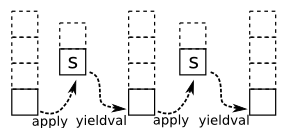
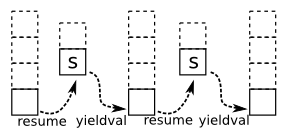
Add corrections.

Changed region(s): [[0.0567, 0.9062, 0.2553, 1.0], [0.5106, 0.9062, 0.6809, 1.0]]

diff --git a/coroutines/docs/0.3/101.md b/coroutines/docs/0.3/101.md
@@ -58,8 +58,9 @@ completes.
 Above, the caller of the `id` lambda (e.g. the main program) must suspend execution
 until `id` completes.
 After `id` returns control to the caller, the instance of the subroutine
-`id` no longer exists, so it does not make sense to refer to it.
-An invocation (i.e. *an instance of a subroutine*) is not a first-class object.
+`id` no longer exists, so it does not make sense to be able to refer to it.
+An invocation (i.e. *an instance of a subroutine*) is therefore
+not a first-class object.
 
 By contrast, a coroutine invocation can suspend its execution before it completes,
 and later be resumed.
@@ -79,20 +80,21 @@ the only difference being the enclosing `coroutine` block:
 Here, the difference between a *coroutine definition*
 and a *coroutine instance* becomes more prominent.
 We cannot create and get a hold of a coroutine instance
-at the same time as obtaining its return value,
+simultaneously with obtaining its return value,
 so starting a coroutine is a two step process.
 First, a coroutine is instantiated with the `call` keyword,
 which returns a coroutine instance object.
-Second, a coroutine instance is started by calling its `apply()` method:
+Second, a coroutine instance is started by calling its `resume` method:
 
     val c = call(id(7))
-    assert(c() == 7)
+    c.resume
+    assert(c.result == 7)
 
 Above, we first use the `call` keyword to create
 an `id` coroutine instance called `c`.
 This coroutine instance object `c` is created in a suspended state,
-and is resumed by calling `c()` to obtain the return value
-from the coroutine.
+and is resumed by calling `c.resume`.
+To obtain the resulting value from the coroutine, we call `c.result`.
 The `assert` statement is used here to verify that the return value
 is really what we expect.
 Importantly, the same coroutine definition can be reused to create many coroutine
@@ -149,11 +151,11 @@ We will study more complex coroutines next.
 
 ## Yielding with coroutines 
 
-To understand why a separate stack is even needed,
+To understand why a separate stack is required,
 we will study a more complex coroutine
 that takes a string and yields counts of different vowels in that string.
 To yield control and a value back to the caller,
-coroutines use the `yieldval` statement.
+coroutines use the special `yieldval` statement.
 Consider the following example.
 
 <div>
@@ -173,25 +175,23 @@ Above, we define a coroutine called `vowelcounts`,
 which takes a `String` parameter.
 This coroutine then calls the `count` method on `String` a total of five times,
 each time for a different vowel character.
-It uses the `yieldval` statement four times to suspend execution
-and return the count to the main program.
+It uses the `yieldval` statement five times to suspend execution
+and yield the count to the main program.
 Each time `yieldval` is called, the coroutine execution is paused,
 and control is returned to the caller.
-The caller then calls `apply()` on the coroutine instance `c` to resume the coroutine.
+The caller then calls `resume` on the coroutine instance `c` to resume the coroutine.
 
 ![ ](/resources/images/invoke3.png)
 
-The last vowel count is then returned as the final expression in the coroutine.
-Finally, the main program calls `isStopped` on the coroutine instance to assert
-that the execution completed.
-It is illegal to call `apply()` on an already completed coroutine instance --
-this throws an exception.
+It is illegal to call `resume` on an already completed coroutine instance --
+doing this raises an exception.
 
-To summarize, there are three important coroutine operations
+To summarize, there are four important coroutine operations
 you need to remember:
 
 - `coroutine` -- used to define a coroutine, e.g. `coroutine { (x: Int) => x }`
 - `call` -- used to invoke a coroutine, i.e. to start a coroutine instance
+- `resume` -- used to resume a paused coroutine
 - `yieldval` -- used only inside a coroutine to suspend execution and yield a value
   to the caller
 

diff --git a/coroutines/docs/0.3/datatypes.md b/coroutines/docs/0.3/datatypes.md
@@ -12,14 +12,22 @@ logostyle: "color: #5f5f5f;"
 Scala Coroutines are *first-class*.
 That means that a coroutine definition is a value that can be passed to other
 functions and coroutines as arguments, much like ordinary function objects can.
-This property allows abstracting over implementations of a coroutine.
-In this part of the guide, we will learn about coroutine data types
-that make this possible.
+This property allows abstracting over implementations of a coroutine,
+as the user of the coroutine does not need to know anything
+about its concrete implementation.
+
+In a statically typed language,
+we need to give the values in our program
+some types before we can start using them.
+In this part of the guide,
+we will learn about data types
+that make first-class coroutines possible.
 
 
 ## Basic coroutine types
 
-A coroutine definition is defined by ...
+A `coroutine` declaration creates an object of type `Coroutine[T]`,
+where `T` is the type of values that the coroutine yields.
 
 
 ## Syntactic sugar

diff --git a/coroutines/index.md b/coroutines/index.md
@@ -23,12 +23,13 @@ and yield control back to the caller, or another coroutine.
 The caller can then resume the coroutine when appropriate.
 Coroutines have a number of use cases, including but not limited to:
 
-- collection iterators
+- data structure iterators
 - event-driven code without the inversion of control
 - cooperative multitasking
 - concurrency frameworks such as actors, async-await and dataflow networks
-- backtracking algorithms
+- expressing asynchrony, and better composition of asynchronous systems
 - capturing continuations
+- expressing backtracking algorithms
 - AI agents such as behavior trees
 
 To learn how to use coroutines, please see the Scala Coroutines Guide
